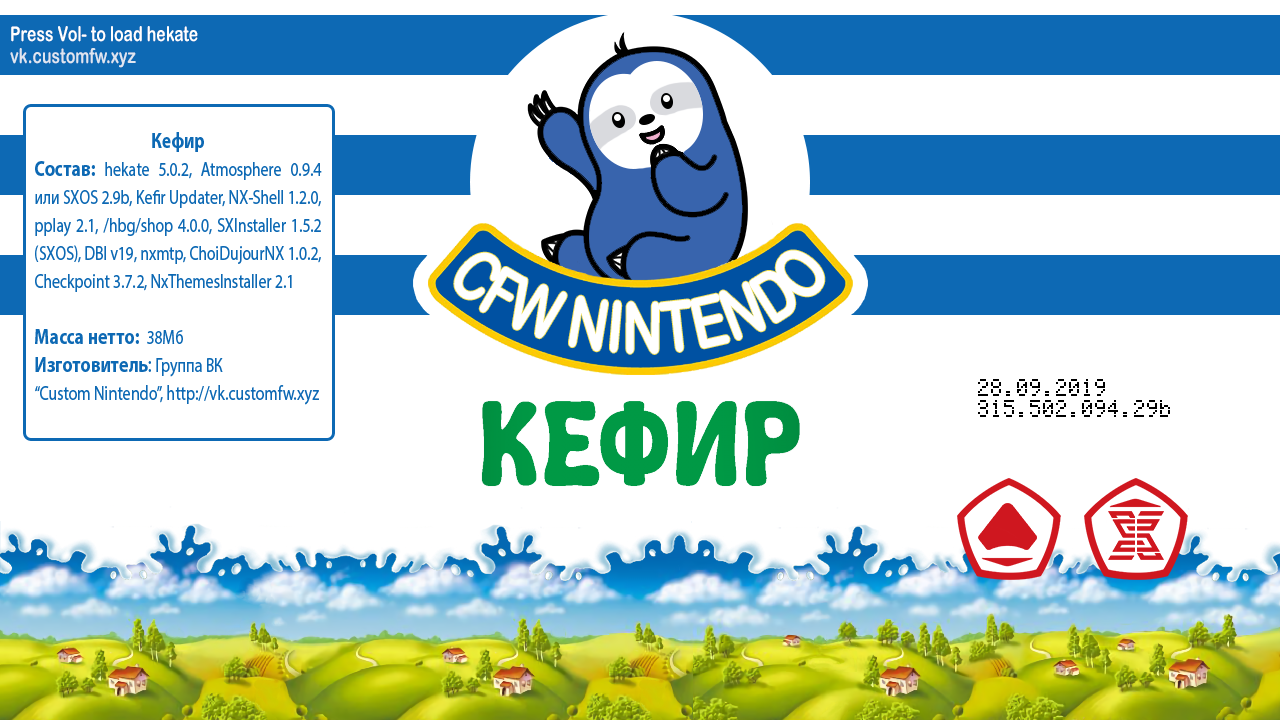
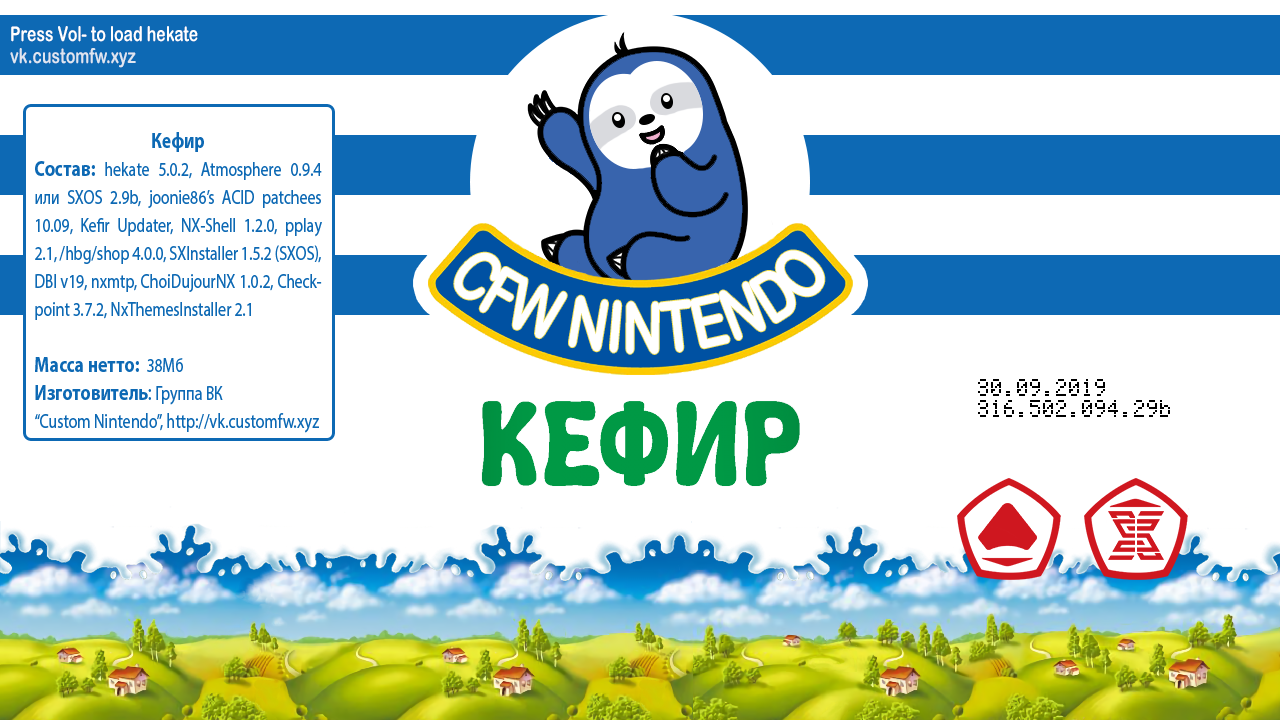
kefir316

Changed region(s): [[0.0312, 0.2444, 0.25, 0.6111]]

diff --git a/kefir.html b/kefir.html
@@ -335,7 +335,7 @@
 <nav class="toc">
     <header><h4 class="nav__title"><i class="fa fa-file-text"></i> Разделы</h4></header>
 <ul class="toc__menu" id="markdown-toc">
-  <li><a href="#kefir-315" id="markdown-toc-kefir-315">KEFIR 315</a>    <ul>
+  <li><a href="#kefir-316" id="markdown-toc-kefir-316">KEFIR 316</a>    <ul>
       <li><a href="#внимание" id="markdown-toc-внимание"><strong>ВНИМАНИЕ!</strong></a></li>
       <li><a href="#состав-kefir" id="markdown-toc-состав-kefir">Состав kefir</a></li>
       <li><a href="#changelog" id="markdown-toc-changelog">Changelog</a></li>
@@ -357,7 +357,7 @@
 
 <hr />
 
-<h2 id="kefir-315">KEFIR 315</h2>
+<h2 id="kefir-316">KEFIR 316</h2>
 
 <p>В контексте этого руководства - сборник, состоящий из выбранного кастома, необходимых программ и скриптов, которые все это установят правильным образом. Подробнее про кефир <a href="https://vk.com/@switchopen-sostav-kefirachast-pervaya-obschaya-informaciya-o-sostave" target="_blank">здесь</a></p>
 
@@ -401,10 +401,10 @@
 <h3 id="changelog">Changelog</h3>
 
 <ul>
-  <li>[Обновлено] SXOS 2.9</li>
+  <li>[Обновлено] ACID patches</li>
 </ul>
 
-<p>Теперь SXOS работает и на 9.0.0</p>
+<p>Должно исправить ошибку с запуском игр, установленных на старых прошивках</p>
 
 <hr />
 
